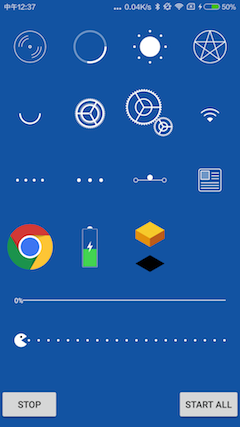
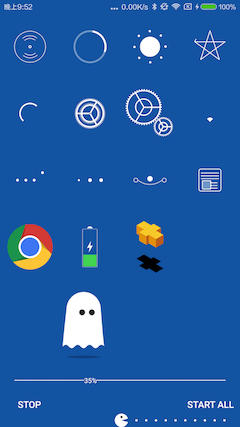
add LVGhost
create a view like ghost. inspired by dribbble

diff --git a/app/src/main/java/com/ldoublem/loadingView/view/LVGhost.java b/app/src/main/java/com/ldoublem/loadingView/view/LVGhost.java
@@ -1,0 +1,291 @@
+package com.ldoublem.loadingView.view;
+
+import android.animation.Animator;
+import android.animation.AnimatorListenerAdapter;
+import android.animation.ValueAnimator;
+import android.content.Context;
+import android.graphics.Canvas;
+import android.graphics.Color;
+import android.graphics.Paint;
+import android.graphics.Path;
+import android.graphics.RectF;
+import android.util.AttributeSet;
+import android.view.View;
+import android.view.animation.LinearInterpolator;
+
+/**
+ * Created by lumingmin on 16/6/29.
+ */
+
+public class LVGhost extends View {
+
+
+    float mWidth = 0f;
+    float mHight = 0f;
+    Paint mPaint, mPaintHand, mPaintShadow, mPaintArms;
+    RectF rectFGhost = new RectF();
+    RectF rectFGhostShadow = new RectF();
+    float mPadding = 0f;
+    int mskirtH = 0;
+    Path path = new Path();
+
+    public LVGhost(Context context) {
+        this(context, null);
+    }
+
+    public LVGhost(Context context, AttributeSet attrs) {
+        this(context, attrs, 0);
+    }
+
+    public LVGhost(Context context, AttributeSet attrs, int defStyleAttr) {
+        super(context, attrs, defStyleAttr);
+        initPaint();
+    }
+
+    @Override
+    protected void onMeasure(int widthMeasureSpec, int heightMeasureSpec) {
+        super.onMeasure(widthMeasureSpec, heightMeasureSpec);
+        mWidth = getMeasuredWidth();
+        mHight = getMeasuredHeight();
+        mPadding = 10;
+        mskirtH = (int) (mWidth / 40);
+    }
+
+    private void initPaint() {
+        mPaint = new Paint();
+        mPaint.setAntiAlias(true);
+        mPaint.setStyle(Paint.Style.FILL);
+        mPaint.setColor(Color.WHITE);
+        mPaintHand = new Paint();
+        mPaintHand.setAntiAlias(true);
+        mPaintHand.setStyle(Paint.Style.FILL);
+        mPaintHand.setColor(Color.argb(220, 0, 0, 0));
+
+        mPaintShadow = new Paint();
+        mPaintShadow.setAntiAlias(true);
+        mPaintShadow.setStyle(Paint.Style.FILL);
+        mPaintShadow.setColor(Color.argb(60, 0, 0, 0));
+
+
+        mPaintArms = new Paint();
+        mPaintArms.setAntiAlias(true);
+        mPaintArms.setStrokeWidth(8);
+        mPaintArms.setStyle(Paint.Style.FILL);
+        mPaintArms.setColor(Color.argb(150, 0, 0, 0));
+
+
+    }
+
+
+    private void drawShadow(Canvas canvas) {
+        canvas.drawArc(rectFGhostShadow, 0, 360, false, mPaintShadow);
+
+    }
+
+
+    private void drawHead(Canvas canvas) {
+        canvas.drawCircle(rectFGhost.left + rectFGhost.width() / 2
+                , rectFGhost.width() / 2 + rectFGhost.top
+                , rectFGhost.width() / 2 - 15
+                , mPaint
+        );
+    }
+
+    private void drawHand(Canvas canvas) {
+
+        canvas.drawCircle(rectFGhost.left + rectFGhost.width() / 2 - mskirtH * 3 / 2 + mskirtH * onAnimationRepeatFlag
+
+                , rectFGhost.width() / 2 + mskirtH + rectFGhost.top,
+                mskirtH * 0.9f, mPaintHand
+        );
+        canvas.drawCircle(rectFGhost.left + rectFGhost.width() / 2 + mskirtH * 3 / 2 + mskirtH * onAnimationRepeatFlag
+                , rectFGhost.width() / 2 + mskirtH + rectFGhost.top,
+                mskirtH * 0.9f, mPaintHand
+        );
+
+
+    }
+
+
+    float wspace = 10f;
+    float hspace = 10f;
+
+    private void drawBody(Canvas canvas) {
+        path.reset();
+
+        float x = (float) ((rectFGhost.width() / 2 - 15) * Math.cos(5 * Math.PI / 180f));
+        float y = (float) ((rectFGhost.width() / 2 - 15) * Math.sin(5 * Math.PI / 180f));
+
+        float x2 = (float) ((rectFGhost.width() / 2 - 15) * Math.cos(175 * Math.PI / 180f));
+        float y2 = (float) ((rectFGhost.width() / 2 - 15) * Math.sin(175 * Math.PI / 180f));
+
+
+        path.moveTo(rectFGhost.left + rectFGhost.width() / 2 - x, rectFGhost.width() / 2 - y + rectFGhost.top);
+        path.lineTo(rectFGhost.left + rectFGhost.width() / 2 - x2, rectFGhost.width() / 2 - y2 + rectFGhost.top);
+        path.quadTo(rectFGhost.right + wspace / 2, rectFGhost.bottom
+                , rectFGhost.right - wspace, rectFGhost.bottom - hspace);
+
+
+        float a = mskirtH;//(mskirtH/2);
+
+        float m = (rectFGhost.width() - 2 * wspace) / 7f;
+
+        for (int i = 0; i < 7; i++) {
+            if (i % 2 == 0) {
+                path.quadTo(rectFGhost.right - wspace - m * i - (m / 2), rectFGhost.bottom - hspace - a
+                        , rectFGhost.right - wspace - (m * (i + 1)), rectFGhost.bottom - hspace);
+            } else {
+                path.quadTo(rectFGhost.right - wspace - m * i - (m / 2), rectFGhost.bottom - hspace + a
+                        , rectFGhost.right - wspace - (m * (i + 1)), rectFGhost.bottom - hspace);
+
+            }
+        }
+
+        path.quadTo(rectFGhost.left - 5, rectFGhost.bottom
+                , rectFGhost.left + rectFGhost.width() / 2 - x, rectFGhost.width() / 2 - y + rectFGhost.top);
+
+
+        path.close();
+        canvas.drawPath(path, mPaint);
+
+
+    }
+
+    @Override
+    protected void onDraw(Canvas canvas) {
+        super.onDraw(canvas);
+        canvas.save();
+
+        float distance = (mWidth - 2 * mPadding) / 3 * 2 * mAnimatedValue;
+
+        rectFGhost.left = mPadding + distance;
+        rectFGhost.right = (mWidth - 2 * mPadding) / 3 + distance;
+        float moveY = 0f;
+        float moveYMax = mHight / 4f / 2f;
+        float shadowHighMax = 5f;
+        float shadowHigh = 0f;
+
+        if (mAnimatedValue <= 0.25) {
+            moveY = (float) (moveYMax / 0.25 * mAnimatedValue);
+            rectFGhost.top = moveY;
+
+            rectFGhost.bottom = mHight / 4 * 3 + moveY;
+
+            shadowHigh = shadowHighMax / 0.25f * mAnimatedValue;
+
+
+        } else if (mAnimatedValue > 0.25 && mAnimatedValue <= 0.5f) {
+
+            moveY = (float) (moveYMax / 0.25 * (mAnimatedValue - 0.25f));
+            rectFGhost.top = moveYMax - moveY;
+            rectFGhost.bottom = mHight / 4 * 3 + moveYMax - moveY;
+
+            shadowHigh = shadowHighMax - shadowHighMax / 0.25f * (mAnimatedValue - 0.25f);
+
+        } else if (mAnimatedValue > 0.5 && mAnimatedValue <= 0.75f) {
+            moveY = (float) (moveYMax / 0.25 * (mAnimatedValue - 0.5f));
+            rectFGhost.top = moveY;
+            rectFGhost.bottom = mHight / 4 * 3 + moveY;
+            shadowHigh = shadowHighMax / 0.25f * (mAnimatedValue - 0.5f);
+
+
+        } else if (mAnimatedValue > 0.75 && mAnimatedValue <= 1f) {
+            moveY = (float) (moveYMax / 0.25 * (mAnimatedValue - 0.75f));
+            rectFGhost.top = moveYMax - moveY;
+            rectFGhost.bottom = mHight / 4 * 3 + moveYMax - moveY;
+            shadowHigh = shadowHighMax - shadowHighMax / 0.25f * (mAnimatedValue - 0.75f);
+
+        }
+
+
+        rectFGhostShadow.top = mHight - 25 + shadowHigh;
+        rectFGhostShadow.bottom = mHight - 5 - shadowHigh;
+        rectFGhostShadow.left = rectFGhost.left + 5 + shadowHigh * 3;
+        rectFGhostShadow.right = rectFGhost.right - 5 - shadowHigh * 3;
+        drawShadow(canvas);
+        drawHead(canvas);
+        drawBody(canvas);
+        drawHand(canvas);
+        canvas.restore();
+
+    }
+
+
+    public void startAnim() {
+        stopAnim();
+        startViewAnim(0f, 1f, 2500);
+    }
+
+    private ValueAnimator valueAnimator;
+    private float mAnimatedValue = 0.f;
+
+    public void stopAnim() {
+        if (valueAnimator != null) {
+            clearAnimation();
+            valueAnimator.setRepeatCount(1);
+            valueAnimator.cancel();
+            valueAnimator.end();
+            mAnimatedValue = 0f;
+            wspace = 10;
+            onAnimationRepeatFlag = 1;
+            postInvalidate();
+        }
+    }
+
+    int onAnimationRepeatFlag = 1;
+
+    private ValueAnimator startViewAnim(float startF, final float endF, long time) {
+        valueAnimator = ValueAnimator.ofFloat(startF, endF);
+        valueAnimator.setDuration(time);
+        valueAnimator.setInterpolator(new LinearInterpolator());
+        valueAnimator.setRepeatCount(ValueAnimator.INFINITE);//无限循环
+        valueAnimator.setRepeatMode(ValueAnimator.REVERSE);
+        valueAnimator.addUpdateListener(new ValueAnimator.AnimatorUpdateListener() {
+            @Override
+            public void onAnimationUpdate(ValueAnimator valueAnimator) {
+
+                mAnimatedValue = (float) valueAnimator.getAnimatedValue();
+
+                invalidate();
+            }
+        });
+        valueAnimator.addListener(new AnimatorListenerAdapter() {
+
+
+            @Override
+            public void onAnimationEnd(Animator animation) {
+                super.onAnimationEnd(animation);
+            }
+
+            @Override
+            public void onAnimationStart(Animator animation) {
+                super.onAnimationStart(animation);
+
+            }
+
+            @Override
+            public void onAnimationRepeat(Animator animation) {
+                super.onAnimationRepeat(animation);
+                onAnimationRepeatFlag = onAnimationRepeatFlag * -1;
+
+                if (onAnimationRepeatFlag == -1) {
+                    wspace = 22;
+                } else {
+                    wspace = -2;
+                }
+
+
+            }
+
+        });
+        if (!valueAnimator.isRunning()) {
+            wspace = -2;
+            valueAnimator.start();
+
+        }
+
+        return valueAnimator;
+    }
+
+
+}

diff --git a/app/src/main/java/com/ldoublem/loadingView/MainActivity.java b/app/src/main/java/com/ldoublem/loadingView/MainActivity.java
@@ -20,6 +20,7 @@ import com.ldoublem.loadingView.view.LVEatBeans;
 import com.ldoublem.loadingView.view.LVFinePoiStar;
 import com.ldoublem.loadingView.view.LVGears;
 import com.ldoublem.loadingView.view.LVGearsTwo;
+import com.ldoublem.loadingView.view.LVGhost;
 import com.ldoublem.loadingView.view.LVLineWithText;
 import com.ldoublem.loadingView.view.LVNews;
 import com.ldoublem.loadingView.view.LVPlayBall;
@@ -51,6 +52,7 @@ public class MainActivity extends AppCompatActivity {
 
     LVNews mLVNews;
     LVBlock mLVBlock;
+    LVGhost mLVGhost;
     int mValueLVLineWithText = 0;
     int mValueLVNews = 0;
 
@@ -79,8 +81,9 @@ public class MainActivity extends AppCompatActivity {
         mLVBattery.setShowNum(false);
         mLVWifi = (LVWifi) findViewById(R.id.lv_wifi);
         mLVNews = (LVNews) findViewById(R.id.lv_news);
-        mLVBlock= (LVBlock) findViewById(R.id.lv_block);
+        mLVBlock = (LVBlock) findViewById(R.id.lv_block);
 //        mLVBlock.isShadow(false);
+        mLVGhost = (LVGhost) findViewById(R.id.lv_ghost);
 
     }
 
@@ -121,10 +124,12 @@ public class MainActivity extends AppCompatActivity {
         } else if (v instanceof LVNews) {
 //            ((LVNews) v).startAnim();
             startLVNewsAnim();
-        }
-        else if (v instanceof LVBlock) {
+        } else if (v instanceof LVBlock) {
             ((LVBlock) v).startAnim();
 
+        }else if(v instanceof LVGhost)
+        {
+            ((LVGhost) v).startAnim();
         }
 
 
@@ -150,6 +155,7 @@ public class MainActivity extends AppCompatActivity {
 //        mLVNews.startAnim();
         startLVNewsAnim();
         mLVBlock.startAnim();
+        mLVGhost.startAnim();
     }
 
 
@@ -177,6 +183,7 @@ public class MainActivity extends AppCompatActivity {
         mLVWifi.stopAnim();
         stopLVNewsAnim();
         mLVBlock.stopAnim();
+        mLVGhost.stopAnim();
     }
 
 

diff --git a/app/src/main/java/com/ldoublem/loadingView/view/LVNews.java b/app/src/main/java/com/ldoublem/loadingView/view/LVNews.java
@@ -426,7 +426,14 @@ public class LVNews extends View {
             valueAnimator.end();
             mAnimatedValue = 0f;
             mStep = 1;
-            postInvalidate();
+            invalidate();
+        }
+        else
+        {
+            mAnimatedValue = 0f;
+            mStep = 1;
+            mValue=100;
+            invalidate();
         }
     }
 
